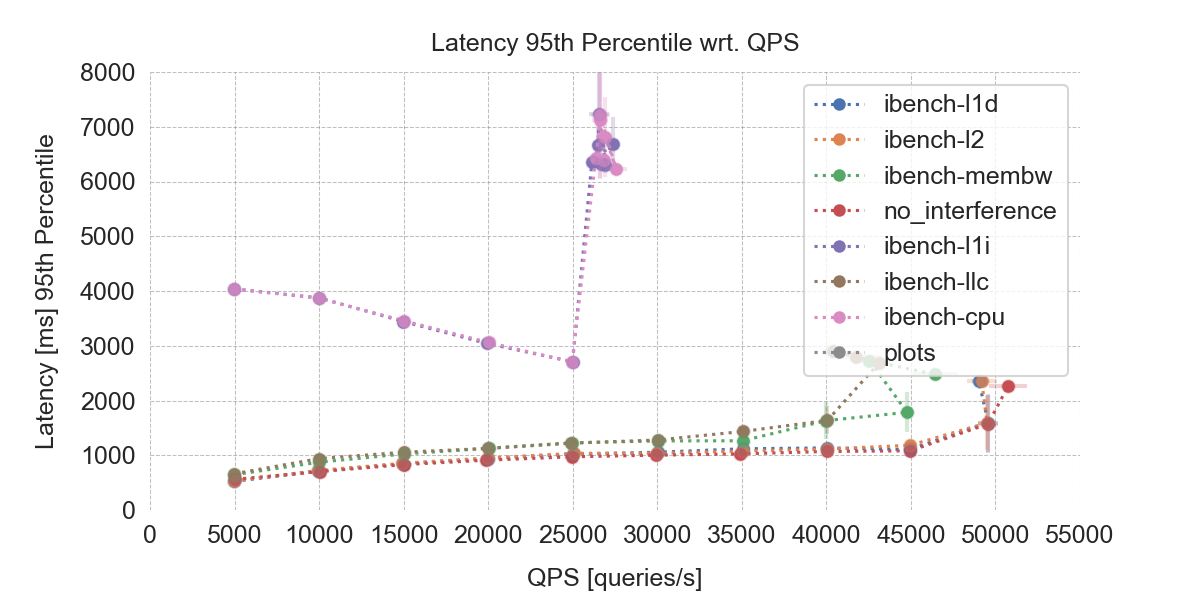
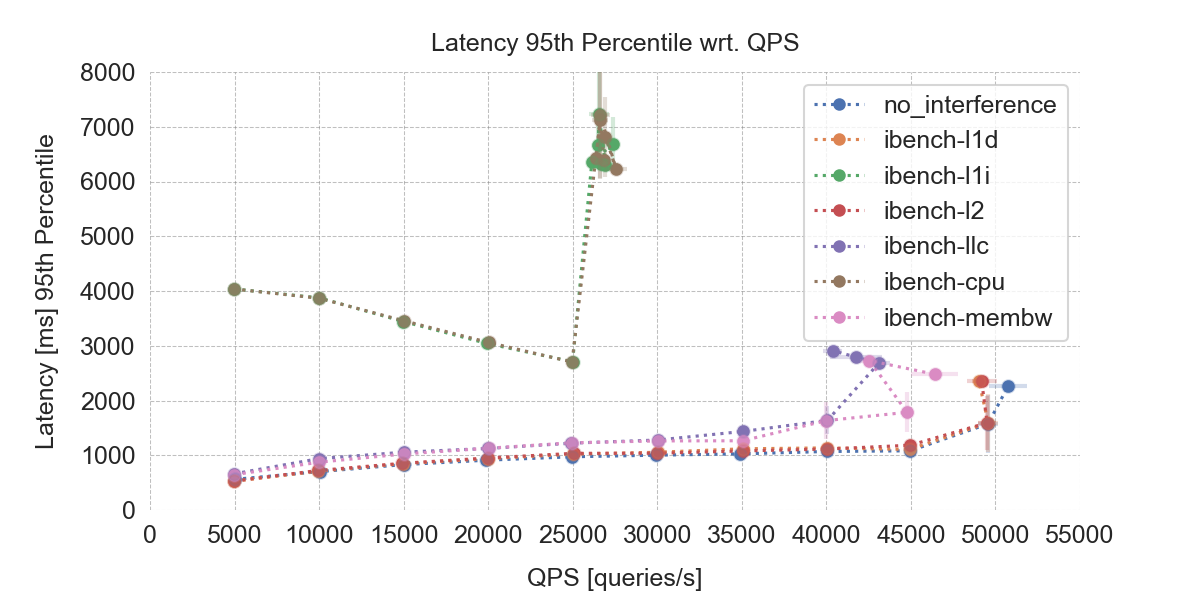
fix error I introduced

diff --git a/scripts/plot.py b/scripts/plot.py
@@ -63,7 +63,15 @@ if __name__ == "__main__":
     if "--task1" in sys.argv:
         plt_setup(xlim=(0, 55e3 + 1), ylim=(0, 8e3))
         colors = cycle(plt.rcParams["axes.prop_cycle"].by_key()["color"])
-        benchmarks = [b for b in os.listdir("results") if os.path.isdir(f"results/{b}")]
+        benchmarks = [
+            "no_interference",
+            "ibench-l1d",
+            "ibench-l1i",
+            "ibench-l2",
+            "ibench-llc",
+            "ibench-cpu",
+            "ibench-membw",
+        ]
 
         for benchmark in benchmarks:
             dfs = load_run_data_folder(f"results/{benchmark}")
